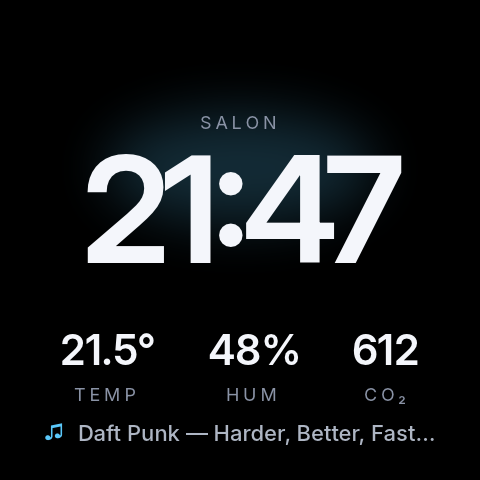
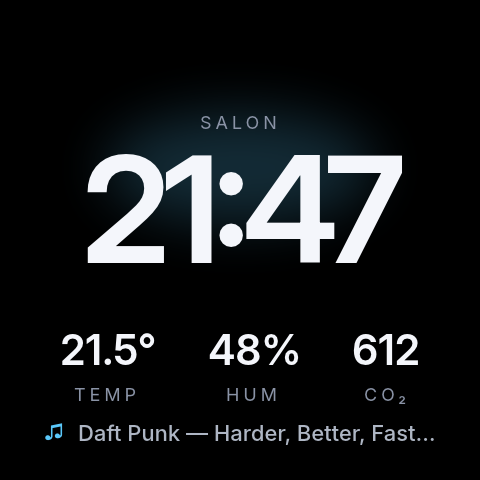
fix: keep text positioning the same on every platform
anyrender_vello_cpu 0.19 snaps glyph origins to CoreGraphics' grid when
built for Apple targets and to Skia's quarter pixel elsewhere, so the
golden renders differed between macOS and Linux/Windows. It skips
snapping for skewed transforms: EngineScene draws glyph runs with a 1e-9
horizontal skew (vertical skew would also turn off hinting), positioning
text continuously everywhere as 0.18 did. At whole-pixel origins, where
every platform's snap is the identity, the output is byte-identical to
the backend's. Regenerate the smart display sample on top.

diff --git a/src/scene.rs b/src/scene.rs
@@ -22,6 +22,13 @@
 //!   here with an isolated clip layer, which vello_cpu places correctly, and
 //!   the filter handed on carries an unbounded region instead.
 //!
+//! - **Per-platform glyph snapping.** anyrender_vello_cpu 0.19 snaps glyph
+//!   origins to CoreGraphics' subpixel grid when built for Apple targets
+//!   and to Skia's quarter pixel elsewhere, so the same document rendered
+//!   differently on macOS. It skips snapping for skewed transforms; glyph
+//!   runs are drawn with a negligible horizontal skew so that text is
+//!   positioned continuously, as it was before, on every platform.
+//!
 //! The colour filters need no guard any more: anyrender_vello_cpu 0.19
 //! converts only the primitives vello_cpu implements (flood, blur, drop
 //! shadow, offset) and drops the rest itself, where 0.18 reached an
@@ -58,6 +65,21 @@ impl<'p, S: PaintScene> EngineScene<'p, S> {
 /// Stands in for "no filter region": far beyond any canvas, so the clip
 /// anyrender_vello_cpu draws from it covers everything even when displaced.
 const UNBOUNDED: Rect = Rect::new(-1e7, -1e7, 1e7, 1e7);
+
+/// Horizontal skew that turns off anyrender_vello_cpu's glyph origin
+/// snapping (`GlyphOriginSnap::new` returns None for any skew): it moves a
+/// glyph at y = 100000 by 1/10000 px. Not vertical skew, which would also
+/// turn off glifo's hinting.
+const NO_SNAP_SKEW: f64 = 1e-9;
+
+/// `transform` with [`NO_SNAP_SKEW`] when it is axis-aligned (the only
+/// transforms anyrender_vello_cpu snaps).
+fn unsnapped(transform: Affine) -> Affine {
+    match transform.as_coeffs() {
+        [a, 0.0, 0.0, d, e, f] => Affine::new([a, 0.0, NO_SNAP_SKEW, d, e, f]),
+        _ => transform,
+    }
+}
 
 /// Whether anyrender_vello_cpu 0.19 hands `filter` to vello_cpu (and so
 /// clips it to its region): its first primitive is one vello_cpu implements
@@ -227,7 +249,7 @@ impl<S: PaintScene> PaintScene for EngineScene<'_, S> {
             style,
             brush,
             brush_alpha,
-            transform,
+            unsnapped(transform),
             glyph_transform,
             glyphs,
             anti_aliasing,
@@ -349,6 +371,69 @@ mod tests {
                 &shadow[40..90]
             );
         }
+    }
+
+    /// Two glyphs of the bundled Inter at 24px, origin `x` on a 40px
+    /// baseline, drawn through [`EngineScene`] or straight to the backend.
+    fn glyph_run(x: f64, through_engine_scene: bool) -> Vec<u8> {
+        fn draw(scene: &mut impl PaintScene, font: &FontData, x: f64) {
+            let glyphs = [
+                Glyph {
+                    id: 44,
+                    x: 0.0,
+                    y: 0.0,
+                },
+                Glyph {
+                    id: 73,
+                    x: 16.0,
+                    y: 0.0,
+                },
+            ];
+            scene.draw_glyphs(
+                font,
+                24.0,
+                false,
+                &[],
+                Vec2::ZERO,
+                Fill::NonZero,
+                Color::from_rgba8(255, 255, 255, 255),
+                1.0,
+                Affine::translate((x, 40.0)),
+                None,
+                glyphs.into_iter(),
+                AntiAliasing::Enabled,
+            );
+        }
+        let font = FontData::new(peniko::Blob::new(Arc::new(crate::DEFAULT_FONT)), 0);
+        render_to_buffer::<VelloCpuImageRenderer, _>(
+            |scene| {
+                if through_engine_scene {
+                    draw(&mut EngineScene::new(scene), &font, x);
+                } else {
+                    draw(scene, &font, x);
+                }
+            },
+            64,
+            64,
+        )
+    }
+
+    /// At whole-pixel origins every platform's snap is the identity, so the
+    /// skew that turns snapping off must change nothing there.
+    #[test]
+    fn unsnapped_glyphs_match_at_whole_pixels() {
+        let direct = glyph_run(10.0, false);
+        assert!(direct.iter().any(|&v| v > 0));
+        assert_eq!(direct, glyph_run(10.0, true));
+    }
+
+    /// Off the pixel grid, glyphs move with their origin. Snapped, 10.1
+    /// lands on 10 on every platform (Skia's nearest 1/4px, CoreGraphics'
+    /// floor to 1/2px at 24ppem).
+    #[test]
+    fn unsnapped_glyphs_follow_fractional_origins() {
+        assert_eq!(glyph_run(10.0, false), glyph_run(10.1, false));
+        assert_ne!(glyph_run(10.0, true), glyph_run(10.1, true));
     }
 
     #[test]

diff --git a/docs/UPSTREAM.md b/docs/UPSTREAM.md
@@ -13,6 +13,7 @@ Engine behaviors discovered while building blitz-py. First found against `blitz 
 | A `box-shadow` whose colour is outside the sRGB gamut is painted with unclamped channels: blitz-paint converts shadow colours to sRGB without gamut mapping (`as_srgb_color`), and the blurred-rounded-rect paint behind every *blurred* shadow converts the raw floats to bytes with SIMD (vello_common `f32_to_u8`: float → u32, keep the low byte). Below 0 becomes 255 on AVX-512, wraps on AVX2, saturates on NEON/scalar; above 1 wraps dark everywhere. So `oklch(76.5% 0.177 163.2)` (Tailwind v4's emerald-400) glows red on x86, and output differs per CPU. Unblurred (offset/spread-only) shadows are solid fills since anyrender_vello_cpu 0.19, which saturate after premultiplying (so an above-1 channel on a translucent colour still comes out brighter than its clamped colour) | anyrender_vello_cpu 0.18–0.19 `draw_box_shadow` → vello_cpu 0.3–0.4 `fill_blurred_rounded_rect(_in)`; blitz-paint `color.rs`, still on blitz main @ `81b4896` | `EngineScene` (`src/scene.rs`) clamps `draw_box_shadow`'s colour per channel before premultiplication | Not reported (repro: `tests/test_box_shadow.py`; the blurred cases fail without the clamp on every CPU, the below-0 ones only on x86) |
 | CSS `filter` is converted by blitz-paint but dropped unless anyrender_vello_cpu's `filters` feature is on (and never with `multithreading`, which turns it back off). vello_cpu implements flood/blur/drop-shadow/offset only; only a filter list's first node is converted | anyrender_vello_cpu 0.18–0.19 `push_layer` / `filters.rs`; vello_common 0.3–0.4 `filter/mod.rs` | `filters` feature on. 0.18 panicked (`unimplemented!()`) on the colour-matrix filters (`grayscale()`, `sepia()`, ...) and `EngineScene` dropped them; 0.19 drops them itself, so that guard is gone | 0.19 skips unsupported primitives (repro: `tests/test_filters.py`) |
 | A non-isolated clip (`push_clip_path` / `push_clip_rect`) enclosing a vello_cpu filter layer is applied displaced down/right by the layer's filter padding (the blur's 3σ, snapped up to 4 device px). anyrender_vello_cpu 0.19 wraps every filter layer in such a clip, its filter region, so `filter: blur()`, a blurred `drop-shadow()` and a blurred `text-shadow` lost their halo above and left of the element; an `overflow: hidden` ancestor with square corners (a rect clip) cuts the filtered element itself on its top/left by up to that padding | vello_cpu 0.4 (no fix visible in vello main's log as of `84ffc24`); anyrender_vello_cpu 0.19 `push_layer` (unchanged on anyrender main @ `92d2a9e`) | `EngineScene` clips the filter region with an isolated clip layer (which vello_cpu places correctly) and hands on the filter with an unbounded region. The enclosing-rect-clip case has no workaround (it would mean isolating every rectangular clip) | Not reported (repro: `src/scene.rs` tests; `tests/test_filters.py::test_blur_inside_a_rectangular_overflow_clip`, strict xfail) |
+| anyrender_vello_cpu snaps glyph origins by compile target (`cfg!(target_os = "macos"/"ios")`): CoreGraphics' grid on Apple (x floored to 1/4–1 px by ppem, baseline y to whole pixels), Skia's nearest 1/4 px x elsewhere. So the same document rendered differently on macOS than on Linux/Windows, breaking the cross-platform golden check | anyrender_vello_cpu 0.19 `GlyphOriginSnap` (not in 0.18) | `EngineScene` draws glyph runs with a 1e-9 horizontal skew, for which anyrender skips snapping: text is positioned continuously everywhere, as with 0.18. This relies on anyrender's internal "no snap when skewed" check; the CI `golden` job is what catches it if that changes. Vertical skew would turn off glifo's hinting, horizontal does not | Not reported (repro: `src/scene.rs` glyph tests; CI `golden`) |
 | `@font-face` sources with no `format()` hint and no URL file extension were silently skipped (data: URIs) | blitz-dom `fetch_font_face`, beta.1 | — | **Fixed** by beta.4 (format-less `data:font/ttf` URIs load) |
 | CSS *animations* didn't apply to `<svg>` elements (static transforms did) | blitz-dom style/animation, beta.1 | — | **Fixed** by beta.4 |
 | `DocumentMutator::set_style_property` didn't invalidate layout | blitz-dom 0.3.0-beta.1 | `Template.set_style` rewrites the `style` attribute instead (kept — equally correct, and no need to churn) | **Fixed** (#582) |

diff --git a/CHANGELOG.md b/CHANGELOG.md
@@ -4,7 +4,8 @@
 
 ### Changed
 - **Engine: blitz-py's Blitz**, the `blitz-py` branch of [adrienbrault/blitz](https://github.com/adrienbrault/blitz) @ `d9099ef`: upstream `main` @ `81b4896` (188 commits past `0.3.0-beta.4`) plus the fork's fix branches `outline-offset` and `text-overflow` ellipsis, pinned with `[patch.crates-io]` (see `docs/UPSTREAM.md` for the model and how the pin moves). Brings Stylo 0.24, Parley/fontique 0.13, anyrender 0.15 / vello_cpu 0.4.
-- **Large text in Inter is narrower**: the engine now applies `font-optical-sizing: auto`, so fonts with an optical-size axis (the bundled Inter Variable) use the cut drawn for that size; 64px semibold "21.5°" is 136px wide instead of 147px. `font-optical-sizing: none` restores the previous rendering. Golden hashes differ from 0.6.0 for text; renders stay byte-identical across platforms.
+- **Large text in Inter is narrower**: the engine now applies `font-optical-sizing: auto`, so fonts with an optical-size axis (the bundled Inter Variable) use the cut drawn for that size; 64px semibold "21.5°" is 136px wide instead of 147px. `font-optical-sizing: none` restores the previous rendering. Golden hashes differ from 0.6.0 for text.
+- **Renders stay byte-identical across platforms.** The new rasterizer snaps glyph positions to CoreGraphics' grid on macOS and to Skia's elsewhere; blitz-py turns that snapping off, so text is positioned continuously everywhere, as before.
 
 ### Added
 - **`text-shadow`** renders: offsets, blur and several shadows.
